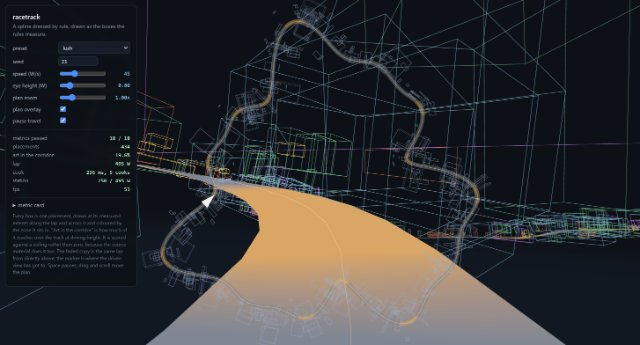
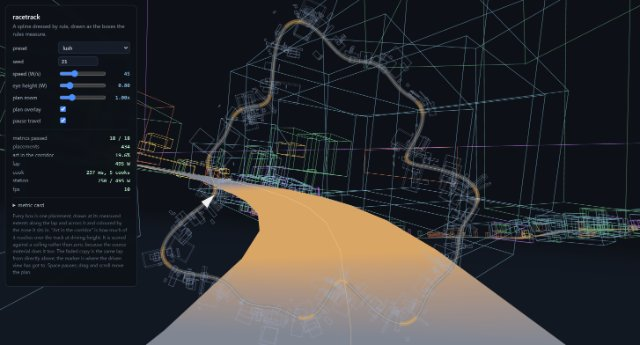
demos: the cluster tables were descriptive output, and the step is a step
The spec team rebuilt a generator from C-1 as published and read an index
of dispersion of 4.21 at a 2W window against a measured 1.36. This demo
read 4.18 building the same thing, so it was never an implementation
slip. The cause is worth keeping because it is a general trap.

THE PUBLISHED CLUSTER TABLES ARE VALIDATION STATISTICS, NOT A
SPECIFICATION. They come from grouping placements at a 1.5W threshold,
and at roughly one placement per W that threshold chains most neighbours
together whatever produced them — a homogeneous Poisson process at the
same density reproduces almost the whole table on its own: 21.3 clusters
per 100W against a measured 19.3, mean 4.38 against 4.90, single-instance
clusters 24% against 23%. Constructing from them double-counts. Explicit
clumps get placed, and then the threshold finds those PLUS the merging it
would have done anyway.

So the near-Poisson generator on main is not a compromise between the two
published tables — it is the correct answer to both, and that it matches
both while a constructed one matches neither is the strongest evidence
available that it has the right shape. The tables now carry the Poisson
null beside them where they are quoted, and the dispersion curve is named
as the only generative target. The information in them is the excess over
that null, which is small and lives in the gaps rather than the counts.

THE MEMBER STEP IS A STEP, which took two corrections. It began as one
[…]

diff --git a/demos/racetrack/kit.ts b/demos/racetrack/kit.ts
@@ -564,7 +564,30 @@ export interface Preset {
   readonly minInstances: number;
   /** Target share of placements per lateral band, keyed by band name. */
   readonly bands: Readonly<Record<string, number>>;
-  /** Mean geometric cluster size across the kit. */
+  /**
+   * Mean geometric cluster size across the kit.
+   *
+   * WHAT THE PUBLISHED CLUSTER TABLES ARE, since it cost a rewrite to
+   * find out. The spec quotes clusters per 100W, mean instances per
+   * cluster and a size distribution, all found by grouping placements at
+   * a 1.5W threshold. At roughly one placement per W that threshold
+   * chains most neighbours together whatever the process produced, so a
+   * homogeneous Poisson process at the same density reproduces almost the
+   * whole table on its own: 21.3 clusters per 100W against a measured
+   * 19.3 for the late era, mean 4.38 against 4.90, single-instance
+   * clusters 24% against 23%.
+   *
+   * They are VALIDATION statistics, not a specification. Constructing a
+   * generator from them double-counts — explicit clumps are placed and
+   * then the threshold finds those plus the merging it would have done
+   * anyway — and a generator built that way reads an index of dispersion
+   * of about 4.2 at a 2W window against a measured 1.36. Both teams
+   * measured that number independently and got the same answer.
+   *
+   * The information in the tables is the EXCESS over the Poisson null,
+   * which is small and lives in the gaps rather than in the counts. The
+   * generative target is the dispersion curve.
+   */
   readonly clusterMean: number;
   /** Share of the lap within 2W of a placement. */
   readonly coverageFloor: number;
@@ -579,20 +602,21 @@ export interface Preset {
   readonly bankMaxDeg: number;
   readonly referenceRadiusW: number;
   /**
-   * How far apart a cluster's members sit along the lap, in W.
+   * The STEP between a cluster's members along the lap, in W.
    *
-   * MEASURED, and the previous single constant was two to five times too
-   * wide. Cluster spans end to end run at a median of 0.23W in the
-   * sparsest era, 0.45W in the earliest and 0.61W in the latest, against
-   * a median cluster size of two — so this is the span of a typical
-   * cluster, and members are close to coincident rather than strung out.
-   * The p90 span is 3 to 5W, which a linear offset reproduces because a
-   * p90 cluster holds nine to eleven members.
+   * Measured, and it took two corrections to get right. It began as one
+   * constant of 0.55W for every era. Then it was set to the median
+   * cluster SPAN — 0.23, 0.45 and 0.61W — which is a different quantity:
+   * a span is a step times one less than the size, and the pooled median
+   * span is dominated by two-member clusters, so using it as a step
+   * happened to be close and for the wrong reason. Broken out by size,
+   * the span grows linearly and the step is stable: 0.37W in the
+   * earliest era, 0.54 in the sparsest and 0.48 in the latest.
    *
-   * It matters beyond tidiness: a cluster spread over 1.5W is barely a
-   * cluster, and the gap statistics that judge this dressing are measured
-   * at a 1.5W grouping threshold. Spread the members that far and the
-   * thing being measured stops existing.
+   * A step rather than a span is also the right shape for a linear
+   * offset, which is what the graph applies. The two agree at size two
+   * and diverge everywhere else, which is exactly where the earlier
+   * version was wrong without looking wrong.
    */
   readonly clusterSpanW: number;
   /**
@@ -685,7 +709,7 @@ export interface Preset {
  */
 export const PRESETS: Readonly<Record<string, Preset>> = {
   sparse: {
-    clusterSpanW: 0.23,
+    clusterSpanW: 0.54,
     gapCvAccept: [1.2, 2.6],
     corridorArtExclude: ["verge-rail", "pipe-run", "billboard", "enclosure-shell"],
     vocabulary: "named",
@@ -723,7 +747,7 @@ export const PRESETS: Readonly<Record<string, Preset>> = {
     lateralPush: { "tree-group": 0.9, bush: 0.9 },
   },
   lush: {
-    clusterSpanW: 0.45,
+    clusterSpanW: 0.37,
     gapCvAccept: [1.2, 2.6],
     corridorArtExclude: ["verge-rail", "pipe-run", "billboard", "enclosure-shell"],
     vocabulary: "named",
@@ -751,7 +775,7 @@ export const PRESETS: Readonly<Record<string, Preset>> = {
     lateralPush: { "tree-group": 1.15, bush: 1.1 },
   },
   dense: {
-    clusterSpanW: 0.61,
+    clusterSpanW: 0.48,
     gapCvAccept: [1.0, 2.6],
     vocabulary: "geometry",
     corridorArtAccept: 0.322,

diff --git a/tests/trackDressing.test.ts b/tests/trackDressing.test.ts
@@ -934,7 +934,7 @@ describe("the index of dispersion", () => {
     // keeps climbing, because a swell puts its variance at the largest
     // scales there are.
     //
-    // FOUR REPLACEMENTS WERE TRIED AND NONE SHIPPED, recorded so the
+    // FIVE REPLACEMENTS WERE TRIED AND NONE SHIPPED, recorded so the
     // next attempt starts further along:
     //
     //  - Deleting the envelope alone flattens the curve to about 1.9 at
@@ -944,18 +944,38 @@ describe("the index of dispersion", () => {
     //    128W: regular spacing suppresses large-scale variance rather
     //    than adding it.
     //  - A modulation at the super scale rather than the lap scale gives
-    //    a PEAK, not a plateau. Any wave does; that is what a wave is.
+    //    a PEAK, not a plateau. Any wave does; that is what a wave is. A
+    //    periodic rate averages out in windows wider than its period, so
+    //    only clumps of finite extent, scattered, plateau.
     //  - Duplicating each anchor into a super-cluster gives the right
-    //    SHAPE — climb to 16W, then flat — and breaks something else:
-    //    an archetype is chosen per anchor, so a duplicated super holds
-    //    one archetype and inflates its per-archetype cluster size from
-    //    1.5 to near 8. The band mix and the corridor rate both moved
-    //    outside their targets. The measured super-cluster is a POOLED
-    //    object holding several archetypes, and reproducing it needs the
-    //    archetype chosen per cluster — which this graph assigns in
-    //    contiguous index blocks to keep the counts exact.
+    //    SHAPE and breaks something else: an archetype is chosen per
+    //    anchor, so a duplicated super holds one archetype and inflates
+    //    its per-archetype cluster size from 1.5 to near 8.
+    //  - A full rewrite of the placement core — anchors as scattered
+    //    super-clusters, both size levels sampled from the spec's
+    //    measured tables, and the archetype drawn per PLACEMENT so the
+    //    clumps come out mixed — scored 15 of 18 and read 4.18 here at
+    //    2W against a measured 1.36.
     //
-    // So the pin is deliberately on the WRONG value. It fails if the
+    // THAT LAST ONE IS THE INTERESTING FAILURE, and it is why this
+    // generator keeps its shape. The spec team rebuilt it independently
+    // and read 4.21, so it is not an implementation slip. The cause is
+    // that the published cluster tables are DESCRIPTIVE OUTPUT rather
+    // than a specification: they come from grouping placements at a 1.5W
+    // threshold, and at roughly one placement per W that threshold chains
+    // most neighbours together whatever the process produced. A
+    // homogeneous Poisson process reproduces almost the whole table on
+    // its own. Constructing from them double-counts — explicit clumps are
+    // placed and then the threshold finds those plus the merging it would
+    // have done anyway.
+    //
+    // So the generator that reproduces BOTH the cluster tables and this
+    // curve is the near-Poisson one, and this suite exists to keep it
+    // that way. The archetype-per-placement finding was real and does not
+    // bite here: with a mean cluster size near 1.5, most anchors carry
+    // one placement and the clumps this makes are already mixed.
+    //
+    // The pin is deliberately on the WRONG value at 128W. It fails if the
     // shortfall grows and it fails if someone fixes the mechanism; the
     // second is the point, and this comment is what they should read.
     const preset = PRESETS.dense;
@@ -963,8 +983,8 @@ describe("the index of dispersion", () => {
     const { placements, lapW } = await runOnce(preset, lapLength, noCorrections(), 21, {}, committed);
     const stations = placements.map((p) => p.stationW);
 
-    // Measured here, one lap, uncorrected: 1.32 / 1.53 / 1.80 / 2.36 /
-    // 3.89 / 6.29 / 11.70 at 2 / 4 / 8 / 16 / 32 / 64 / 128W. The source
+    // Measured here, one lap, uncorrected: 1.62 / 1.64 / 2.27 / 2.78 /
+    // 5.01 / 8.25 / 12.36 at 2 / 4 / 8 / 16 / 32 / 64 / 128W. The source
     // reads 1.36 / 1.78 / 2.97 / 4.79 / 6.52 / 5.50 / 6.25.
     //
     // The small end lands: the clustering rule's own work is right.
